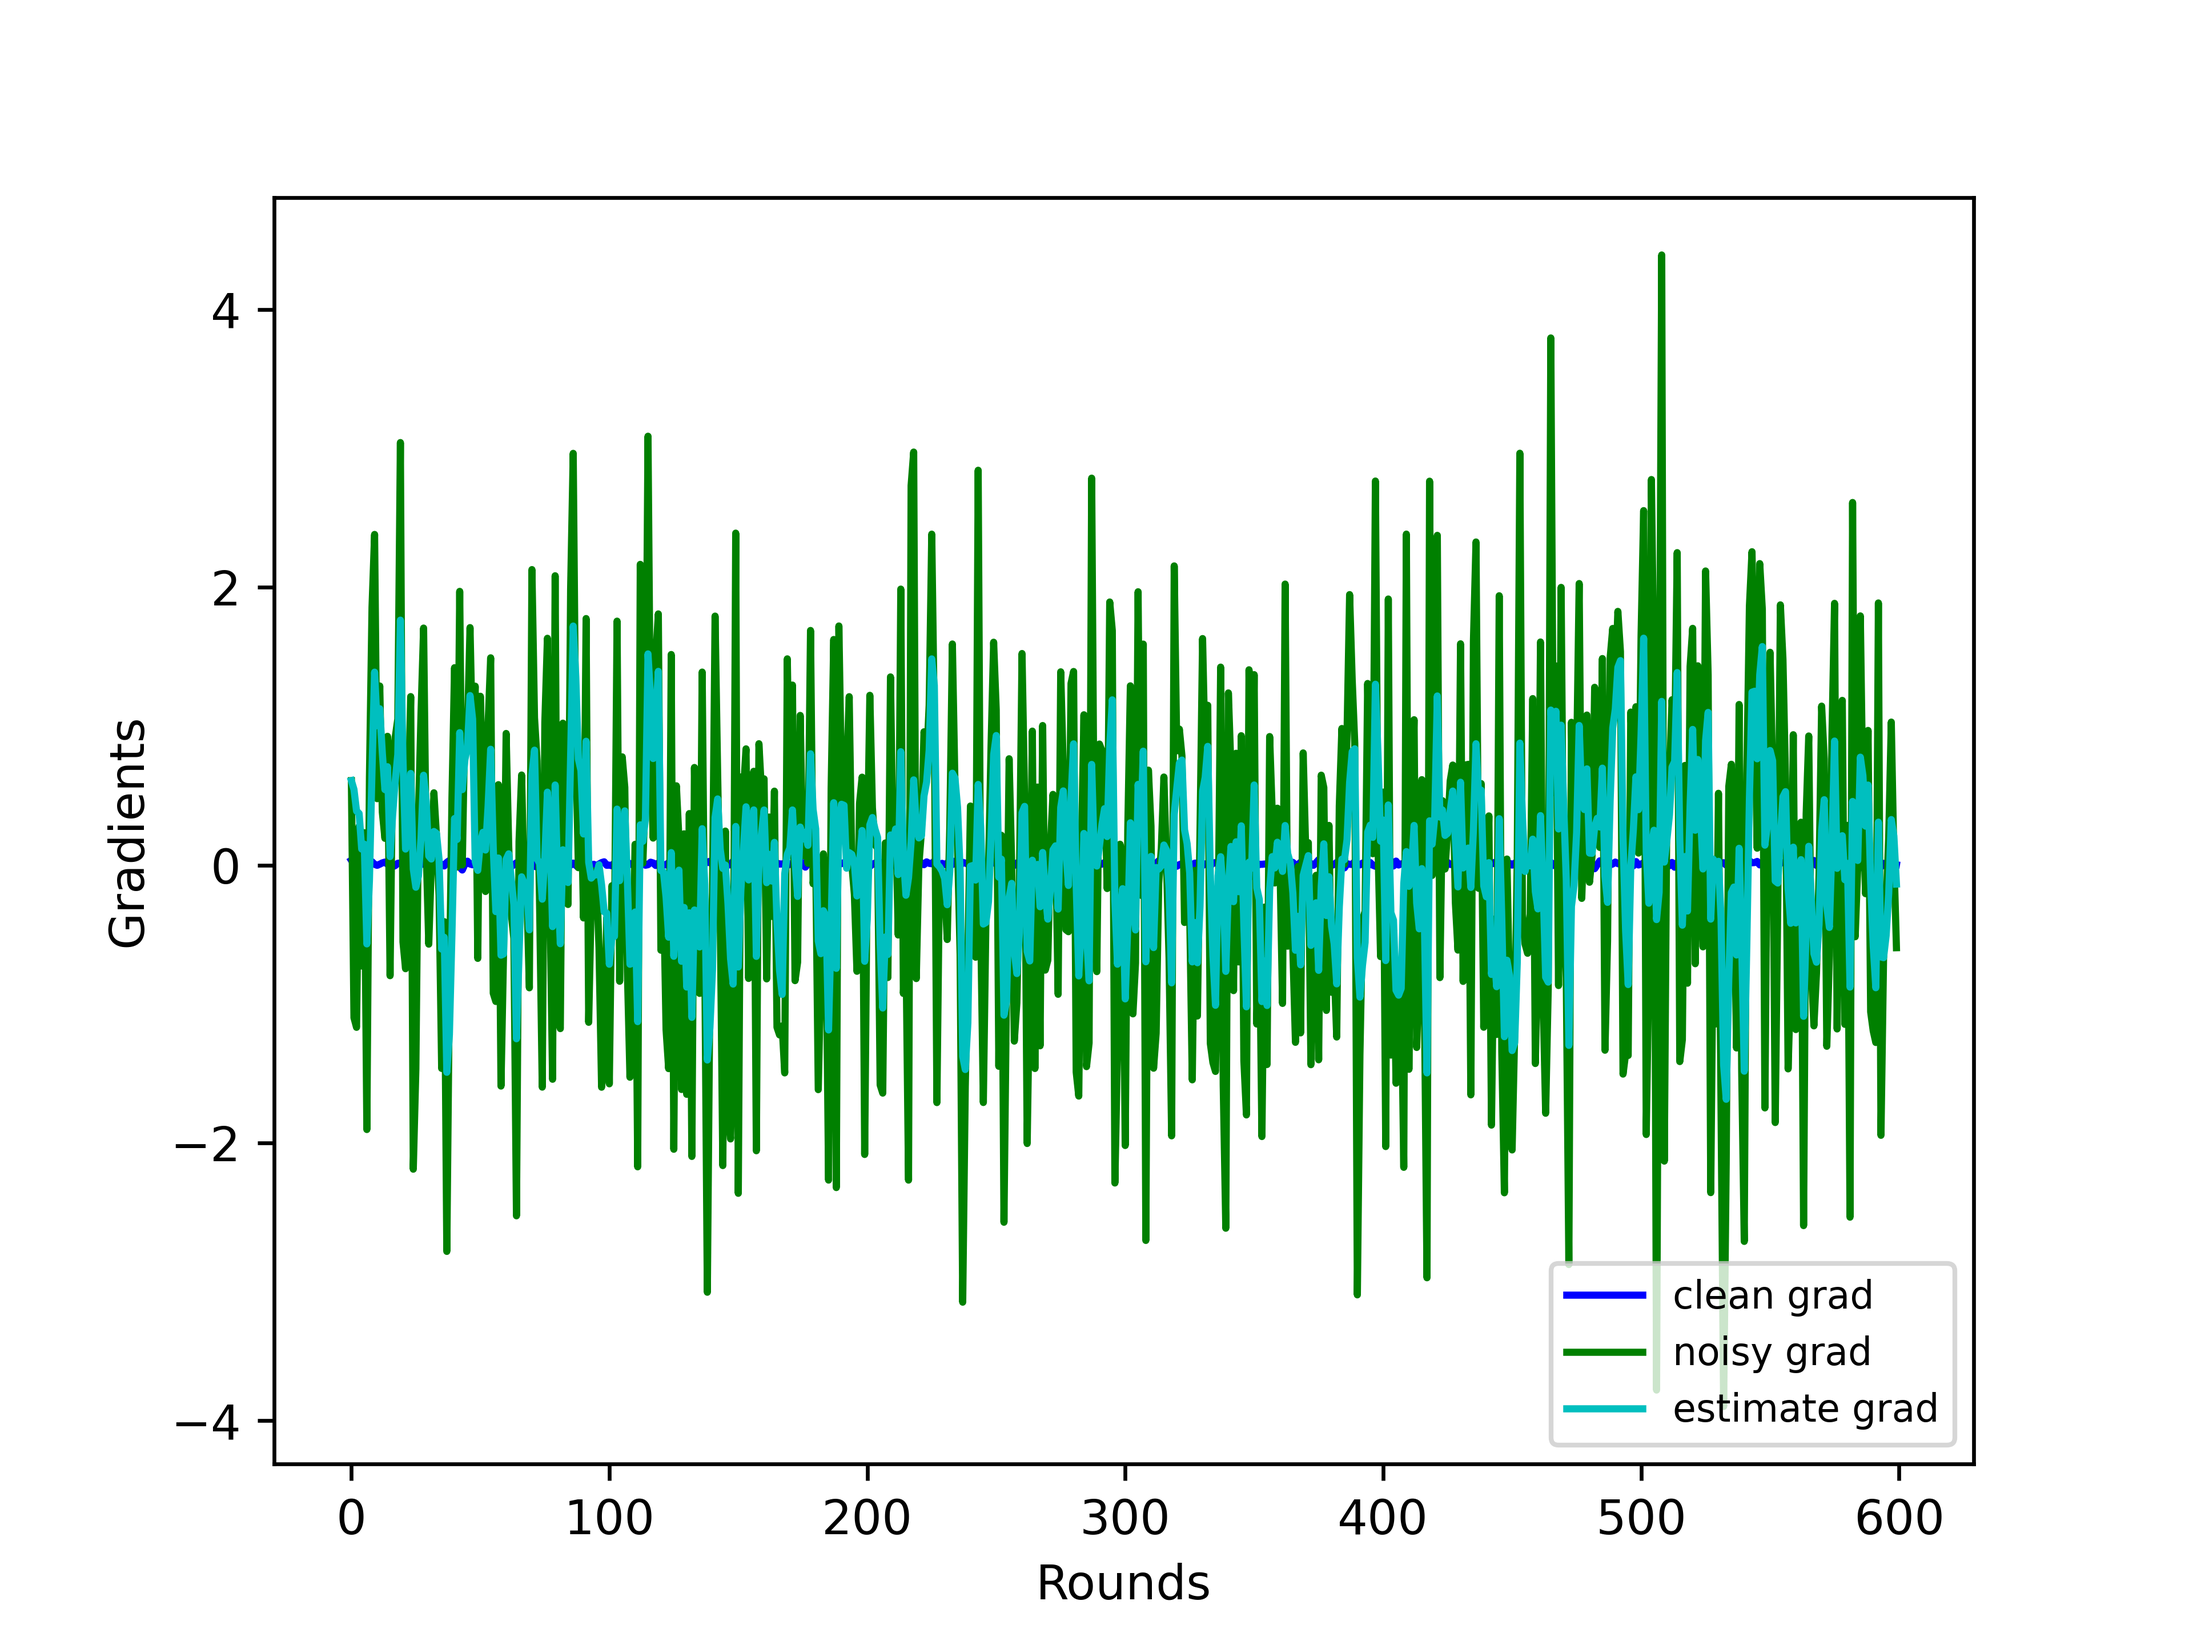
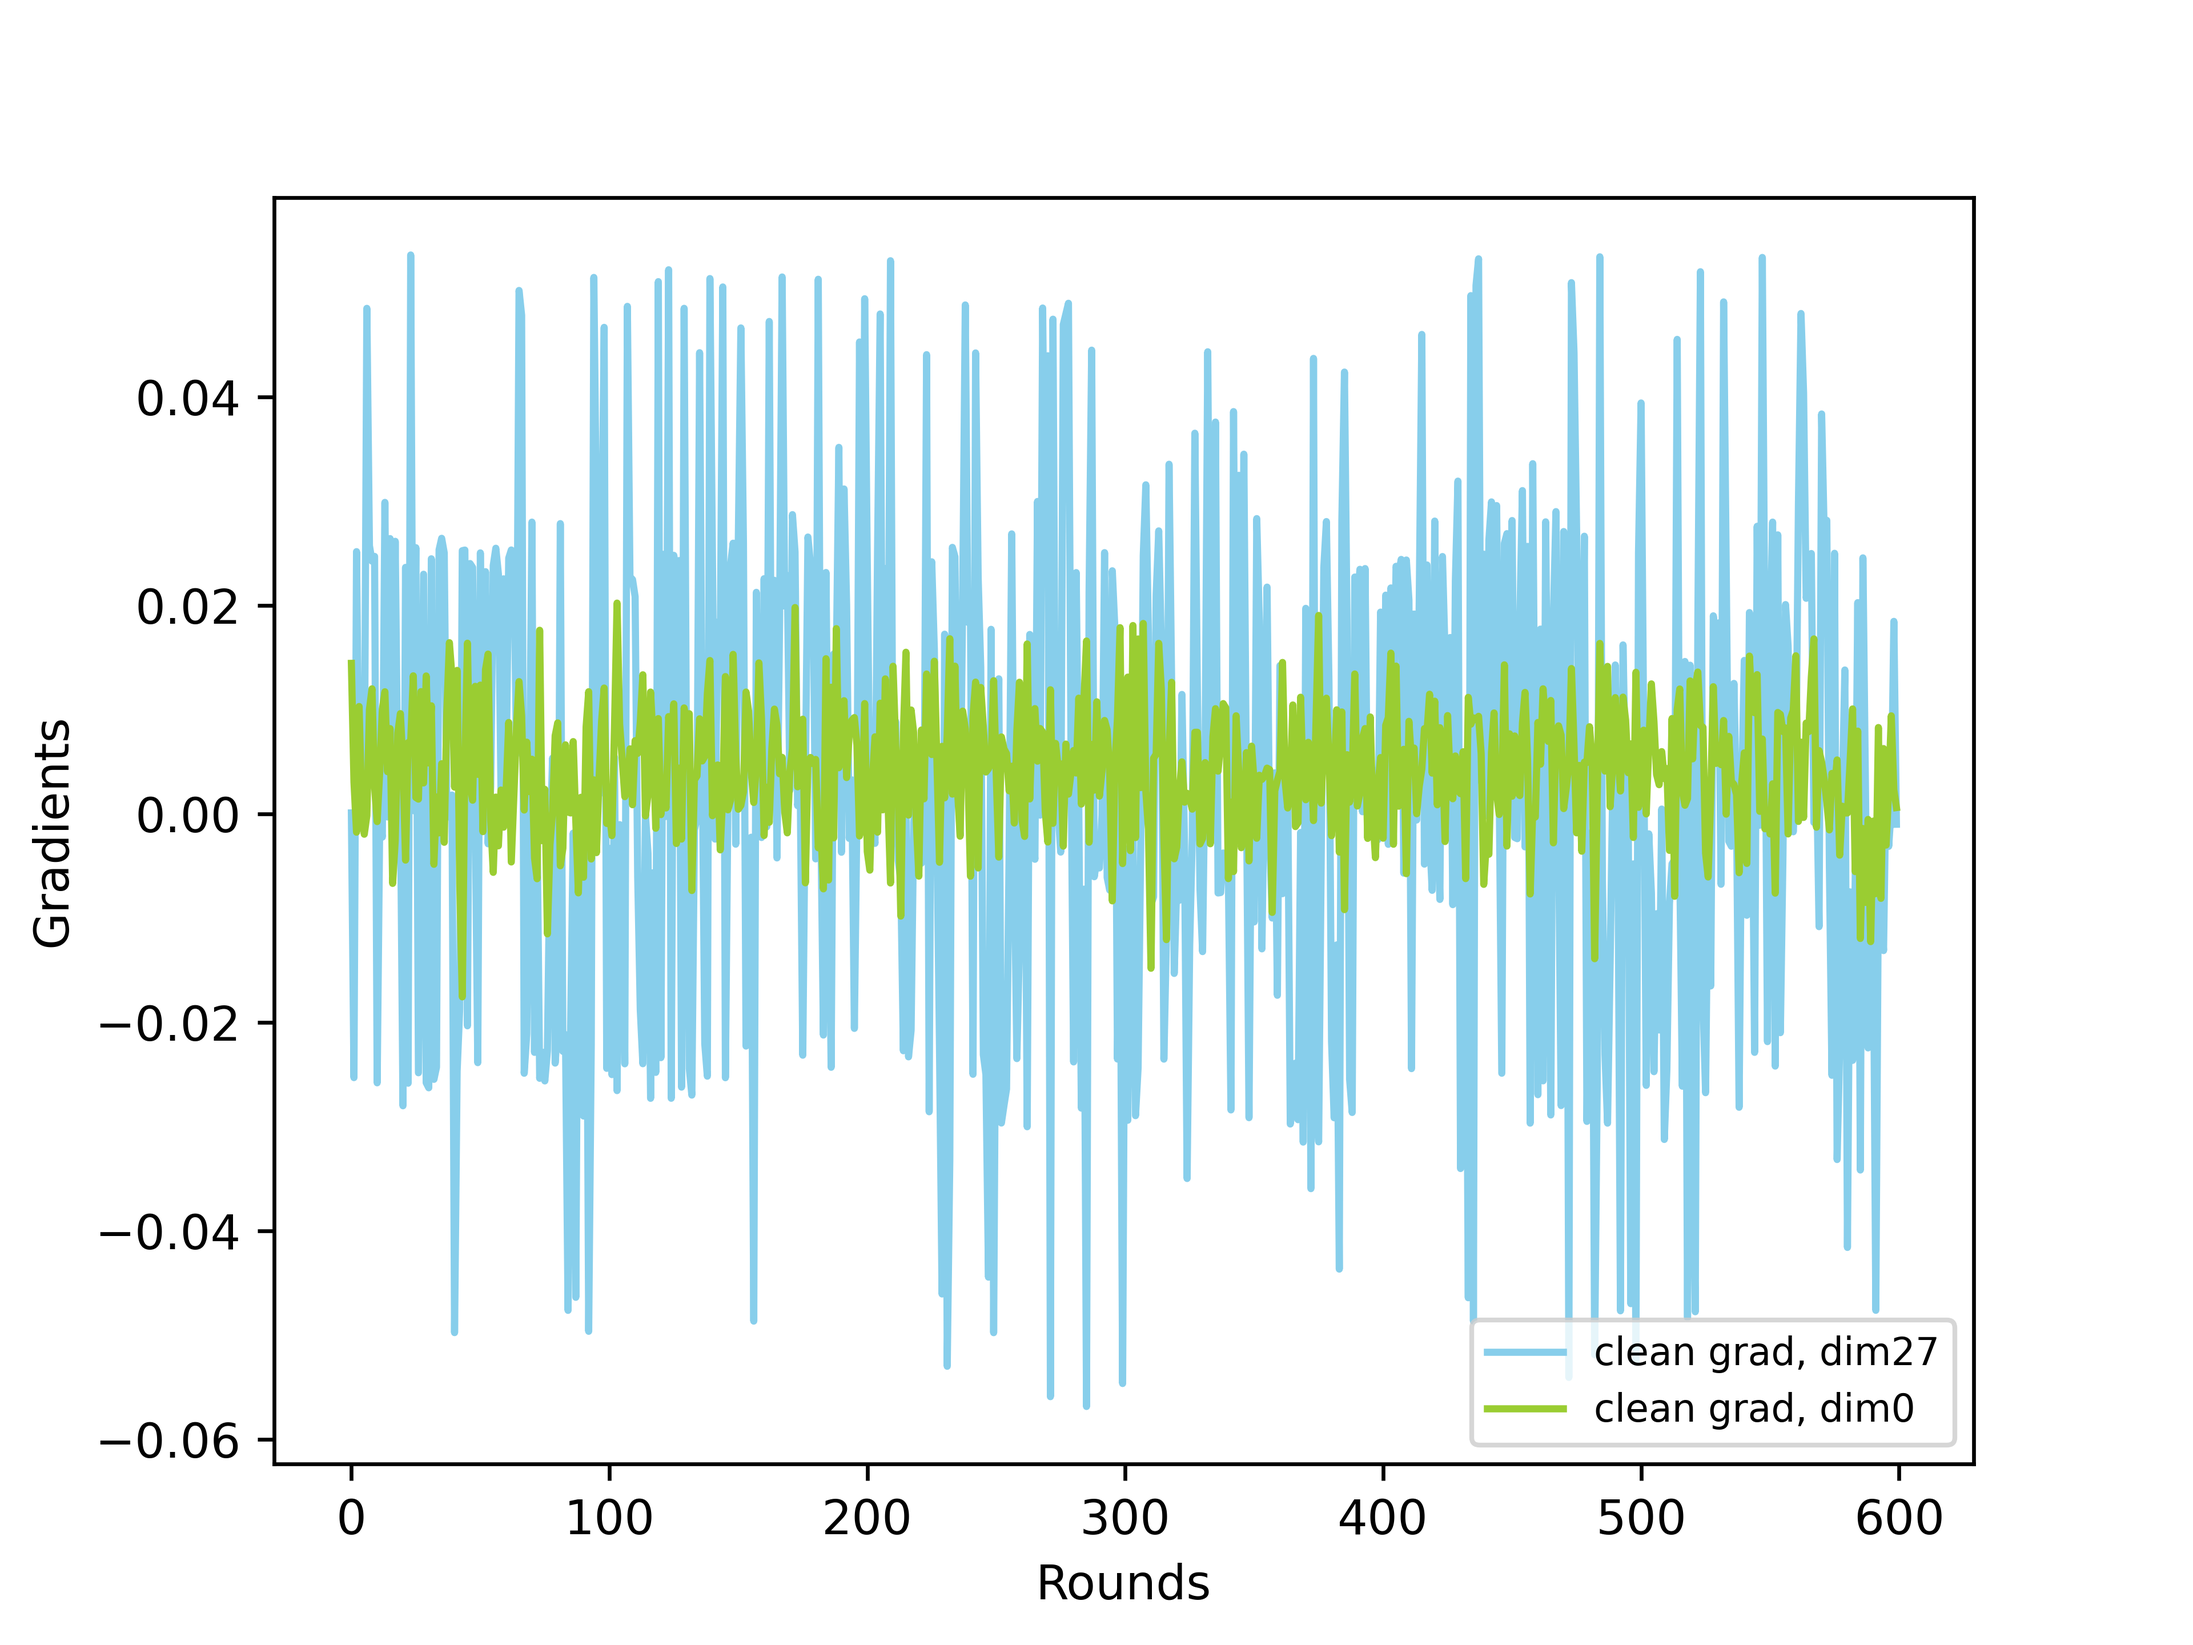
plot grad var

diff --git a/utils/grad_plot.py b/utils/grad_plot.py
@@ -1,9 +1,11 @@
 
 import matplotlib.pyplot as plt
+import torch
 
 def grad_plot(log):
     global_round = len(log)
     clean = []
+    clean27 = []
     noisy = []
     estimate = []
     rounds = 0
@@ -12,15 +14,18 @@ def grad_plot(log):
         for j in range(local_round):
             c, n, e = log[i][j]
             clean.append(c[0].reshape(-1)[0])
-            noisy.append(n[0].reshape(-1)[0])
-            estimate.append(e[0].reshape(-1)[0])
+            clean27.append(c[1].reshape(-1)[0])
+            # noisy.append(n[0].reshape(-1)[0])
+            # estimate.append(e[0].reshape(-1)[0])
             rounds += 1 
 
     plt.switch_backend('agg')
     r = range(rounds)
-    plt.plot(r, clean, 'b', label='clean grad')
-    plt.plot(r, noisy, 'g', label='noisy grad')
-    plt.plot(r, estimate, 'c', label='estimate grad')
+    plt.plot(r, clean27, 'skyblue', label='clean grad, dim27')
+    plt.plot(r, clean, 'yellowgreen', label='clean grad, dim0')
+
+    # plt.plot(r, noisy, 'g', label='noisy grad')
+    # plt.plot(r, estimate, 'c', label='estimate grad')
 
     plt.ylabel('Gradients')
     plt.xlabel('Rounds')
@@ -30,4 +35,162 @@ def grad_plot(log):
     plt.show()
     root_path = '/home/yliu270/workspace/DFL_pytorch/'
     plt.savefig(root_path+'grad.png', dpi=600)
+    plt.close()
+
+def grad_var_t(log): #variance of certain dimension along time step (var of T gradients)
+    global_round = len(log)
+    clean = []
+    noisy = []
+    estimate = []
+    rounds = 0
+    for i in range(global_round):
+        local_round = len(log[i])
+        for j in range(local_round):
+            c, n, e = log[i][j] # parameters of a whole model
+            clean.append(grad_flat(c))
+            noisy.append(grad_flat(n))
+            estimate.append(grad_flat(e))
+            rounds += 1 
+
+    clean = torch.var(torch.stack(clean, dim=0), dim=0)
+    noisy =  torch.var(torch.stack(noisy, dim=0), dim=0)
+    # estimate = torch.stack(estimate, dim=1)
+    dim_num = len(clean)
+
+    plt.switch_backend('agg')
+    r = range(rounds)
+    d = range(dim_num)
+    plt.bar(d, clean, color='skyblue', label='clean grad', alpha=0.6)
+    plt.bar(d, noisy, color='yellowgreen', label='noisy grad', alpha=0.6)
+    # plt.hist(clean, bins=10, color='skyblue', alpha=0.6, label='clean grad')
+    # plt.plot(r, estimate, 'c', label='estimate grad')
+
+    plt.ylabel('Gradients Var OVer time')
+    plt.xlabel('Dimension ID')
+    plt.legend(loc='best', fontsize=8)
+
+    # plt.title('FLamby $\epsilon$=0.5', fontsize=9)
+    plt.show()
+    root_path = '/home/yliu270/workspace/DFL_pytorch/'
+    plt.savefig(root_path+'grad_var_t.png', dpi=600)
+    plt.close()
+
+def grad_flat(param):
+    vec = torch.tensor([])
+    for p in param:
+        vec = torch.cat((vec, p.reshape(-1)))
+    return vec
+
+def grad_var(log): #variance of certain dimension along time step (var of t-1 gradients)
+    global_round = len(log)
+    clean = []
+    noisy = []
+    estimate = []
+    rounds = 0
+    for i in range(global_round):
+        local_round = len(log[i])
+        for j in range(local_round):
+            c, n, e = log[i][j] # parameters of a whole model
+            clean.append(grad_flat(c))
+            noisy.append(grad_flat(n))
+            estimate.append(grad_flat(e))
+            rounds += 1 
+
+    clean = torch.var(torch.stack(clean, dim=0), dim=0)
+    noisy =  torch.var(torch.stack(noisy, dim=0), dim=0)
+    estimate = torch.var(torch.stack(estimate, dim=0), dim=0)
+    dim_num = len(clean)
+
+    plt.switch_backend('agg')
+    r = range(rounds)
+    d = range(dim_num)
+
+    plt.bar(d, noisy, color='yellowgreen', label='noisy grad', alpha=0.46)
+    plt.bar(d, estimate, color='gold', label='estimate grad', alpha=0.6)
+    plt.bar(d, clean, color='skyblue', label='clean grad', alpha=0.6)
+    # plt.hist(clean, bins=10, color='skyblue', alpha=0.6, label='clean grad')
+
+
+    plt.ylabel('Gradients Var OVer time')
+    plt.xlabel('Dimension ID')
+    plt.legend(loc='best', fontsize=8)
+
+    # plt.title('FLamby $\epsilon$=0.5', fontsize=9)
+    plt.show()
+    root_path = '/home/yliu270/workspace/DFL_pytorch/'
+    plt.savefig(root_path+'grad_var.png', dpi=600)
+    plt.close()
+
+def grad_var_t(log): #variance of certain dimension along time step
+    global_round = len(log)
+    clean = []
+    noisy = []
+    estimate = []
+    rounds = 0
+    # noise_var = (26.352314 * 0.1 / 4.0)**2
+    noise_var =(11.785113* 0.1 / 4.0)**2
+    for i in range(global_round):
+        local_round = len(log[i])
+        for j in range(local_round):
+            c, n, e = log[i][j] # parameters of a whole model
+            clean.append(grad_flat(c))
+            noisy.append(grad_flat(n))
+            estimate.append(grad_flat(e))
+            rounds += 1 
+
+    d = range(len(clean))
+    r = range(rounds)
+
+    c = torch.stack(clean, dim=0)
+    n = torch.stack(noisy, dim=0)
+    e = torch.stack(estimate, dim=0)
+    clean = []
+    noisy = []
+    estimate = []
+    for i in r:
+        clean.append(torch.var(c[0:i+1], dim=0)) # [r, d]
+        noisy.append(torch.var(n[0:i+1], dim=0))
+        estimate.append(torch.var(e[0:i+1], dim=0))
+    clean = torch.stack(clean, dim=0)
+    noisy = torch.stack(noisy, dim=0)
+    noise = noisy - clean
+    clean_estimate = noisy - noise_var
+    estimate = torch.stack(estimate, dim=0)
+
+    plt.switch_backend('agg')
+
+    plt.plot(r, noisy[:,27], color='yellowgreen', label='noisy grad dim27', marker='s')
+    plt.plot(r, clean[:,27], color='skyblue', label='clean grad dim27')
+    plt.plot(r, (noisy-noise_var)[:,27], color='gold', label='noisy-noise var dim27')
+    plt.plot(r, (clean+noise_var)[:,27], color='silver', label='noise+noise var dim27')
+    plt.plot(r, estimate[:,27], color='lightsalmon', label='estimate grad dim27')
+    plt.plot(r, noise[:,27], color='violet', label='noise dim27')
+    plt.ylabel('Gradients Var along Time')
+    plt.xlabel('Epochs')
+    plt.legend(loc='best', fontsize=8)
+
+    # plt.title('FLamby $\epsilon$=0.5', fontsize=9)
+    plt.show()
+    root_path = '/home/yliu270/workspace/DFL_pytorch/'
+    plt.savefig(root_path+'grad_var_t_dim27.png', dpi=600)
+    plt.close()
+
+    plt.plot(r, noisy[:,0], color='darkolivegreen', label='noisy grad dim0', alpha=0.6)
+    plt.plot(r, clean[:,0], color='dodgerblue', label='clean grad dim0', alpha=0.6)
+    plt.plot(r, clean_estimate[:,0], color='orange', label='noisy-clean var dim0', alpha=0.6)
+    plt.plot(r, estimate[:,0], color='tomato', label='estimate grad dim0', alpha=0.6)
+
+
+
+    # plt.hist(clean, bins=10, color='skyblue', alpha=0.6, label='clean grad')
+
+
+    plt.ylabel('Gradients Var along Time')
+    plt.xlabel('Epochs')
+    plt.legend(loc='best', fontsize=8)
+
+    # plt.title('FLamby $\epsilon$=0.5', fontsize=9)
+    plt.show()
+    root_path = '/home/yliu270/workspace/DFL_pytorch/'
+    plt.savefig(root_path+'grad_var_t_dim0.png', dpi=600)
     plt.close()

diff --git a/main_test.py b/main_test.py
@@ -18,6 +18,7 @@ from utils.dpsgd_utils import compute_noise_multiplier
 from utils.budgets_accountant import BudgetsAccountant
 from utils.main_utils import save_progress, print_accuracy_and_loss, setup_seed
 import os
+from utils.grad_plot import grad_plot, grad_var, grad_var_t
 # os.environ['CUDA_VISIBLE_DEVICES'] ='0'
 device = torch.device("cuda" if torch.cuda.is_available() else "cpu")
 MODEL_PARAMS={
@@ -160,6 +161,8 @@ def main(args):
             save_address = save_progress(args, accuracy_accountant)
     print(save_address)
     # grad_plot(log)
+    # grad_var(log)
+    grad_var_t(log)
 
 if __name__ == '__main__':
     parser = argparse.ArgumentParser()
@@ -172,7 +175,7 @@ if __name__ == '__main__':
     parser.add_argument('--global_round', type=int, default=100)
     parser.add_argument('--local_round', type=int, default=2)
     parser.add_argument('--noniid', type=bool, default=False, help='if True, use noniid data')
-    parser.add_argument('--num_clients', type=int, default=100) 
+    parser.add_argument('--num_clients', type=int, default=10) 
     parser.add_argument('--batch_size', type=int, default=128)
     parser.add_argument('--dp', type=bool, default=False, help='if True, use differential privacy')
     parser.add_argument('--eps', type=float, default=0.5)

diff --git a/main_flamby.py b/main_flamby.py
@@ -18,7 +18,7 @@ from models.server import Server
 from utils.dpsgd_utils import compute_noise_multiplier
 from utils.budgets_accountant import BudgetsAccountant
 from utils.main_utils import save_progress, print_accuracy_and_loss, setup_seed
-from utils.grad_plot import grad_plot
+from utils.grad_plot import grad_plot, grad_var, grad_var_t
 import os
 os.environ['CUDA_VISIBLE_DEVICES'] ='0,1,2'
 MODEL_PARAMS={
@@ -137,6 +137,9 @@ def main(args):
             # log
             if p_id == 0:
                 log.append(bytes2)
+            # if p_id not in clog:
+            #     clog[p_id] = []
+            # clog[p_id].append(bytes2)
             
             # if args.dp:
             #     print('for client: %d and delta: %.5f the budget: %.8f and the cost budget: %.8f \n'
@@ -164,6 +167,8 @@ def main(args):
             save_address = save_progress(args, accuracy_accountant)
     print(save_address)
     # grad_plot(log)
+    # grad_var(log)
+    grad_var_t(log)
 
 if __name__ == '__main__':
     parser = argparse.ArgumentParser()

diff --git a/models/client.py b/models/client.py
@@ -166,8 +166,8 @@ class Client(nn.Module):
                     optimizer.kfilter = KalmanFilter(optimizer.last_grad, (self.grad_norm*0.1)**2, (self.grad_perp_norm*0.1)**2)
         if self.kfilter:
             optimizer.last_grad = [p/self.batch_size for p in self.global_last_grad]
-            # optimizer.kfilter = KalmanFilter(optimizer.last_grad, (self.grad_norm*0.1)**2, (0.1*self.grad_norm*noise/self.batch_size)**2)
-            optimizer.kfilter = KalmanFilter(optimizer.last_grad, (self.grad_norm*noise)**2, (self.grad_norm*noise*0.1)**2)
+            optimizer.kfilter = KalmanFilter(optimizer.last_grad, (self.grad_norm*0.1)**2, (0.1*self.grad_norm*noise/self.batch_size)**2)
+            # optimizer.kfilter = KalmanFilter(optimizer.last_grad, (self.grad_norm*noise)**2, (self.grad_norm*noise*0.1)**2)
  
         optimizer.global_last_grad = self.global_last_grad # not used temporarily
         logs = []
